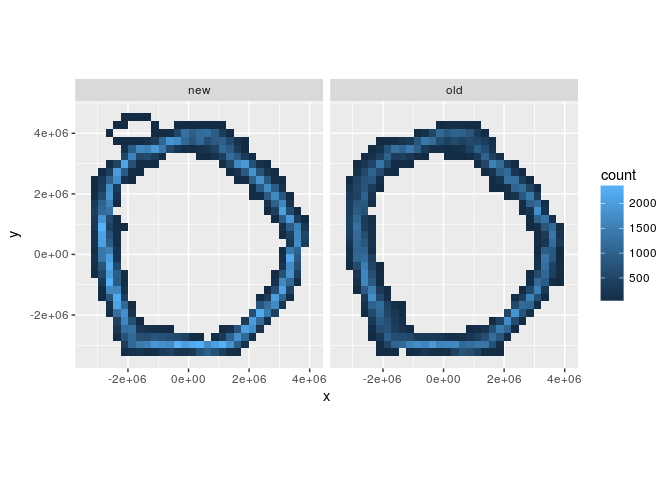
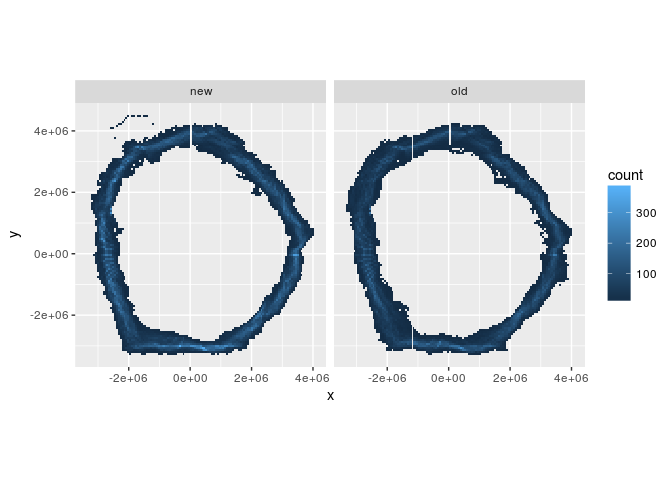
finer resolution

diff --git a/README.md b/README.md
@@ -31,7 +31,7 @@ ice <- tibble(lon = rep_len(seq(-180, 179), length.out = length(packed_lats)),
 prjstere <- "+proj=stere +lat_0=-90 +datum=WGS84"
 ice[c("x", "y")] <- rgdal::project(as.matrix(ice[c("lon", "lat")]), prjstere)
 library(ggplot2)
-ggplot(ice, aes(x, y)) + geom_bin2d() + coord_equal()
+ggplot(ice, aes(x, y)) + geom_bin2d(bins = 120) + coord_equal()
 #> Warning: Removed 12538 rows containing non-finite values (stat_bin2d).
 ```
 
@@ -41,7 +41,7 @@ ggplot(ice, aes(x, y)) + geom_bin2d() + coord_equal()
 
 # what does a month look like
 mon <- ice %>% dplyr::filter(format(day, "%m") == "08")
-ggplot(mon, aes(x, y)) + geom_bin2d() + coord_equal() + xlim(range(mon$x)) + ylim(range(mon$y))
+ggplot(mon, aes(x, y)) + geom_bin2d(bins = 120) + coord_equal() + xlim(range(mon$x)) + ylim(range(mon$y))
 #> Warning: Removed 1074 rows containing non-finite values (stat_bin2d).
 #> Warning: Removed 2 rows containing missing values (geom_tile).
 ```
@@ -50,12 +50,14 @@ ggplot(mon, aes(x, y)) + geom_bin2d() + coord_equal() + xlim(range(mon$x)) + yli
 
 ``` r
 
+
 mon$era <- c("old", "new")[(mon$day > as.POSIXct("1998-06-15")) + 1]
 ggplot(mon, aes(x, y)) + 
-  geom_bin2d() + coord_equal() + xlim(range(mon$x)) + ylim(range(mon$y)) + 
+  geom_bin2d(bins = 120) + coord_equal() + xlim(range(mon$x)) + ylim(range(mon$y)) + 
   facet_wrap(~era)
 #> Warning: Removed 1074 rows containing non-finite values (stat_bin2d).
-#> Warning: Removed 4 rows containing missing values (geom_tile).
+
+#> Warning: Removed 2 rows containing missing values (geom_tile).
 ```
 
 ![](README-example-3.png)
@@ -69,7 +71,7 @@ library(orsifronts)
 library(dplyr)
 fronts <- ggplot2::fortify(sp::spTransform(orsifronts, prjstere))
 
-ggplot(mon, aes(x, y)) + geom_bin2d() + geom_path(data = fronts, aes(long, lat, group = group, colour = id))
+ggplot(mon, aes(x, y)) + geom_bin2d(bins = 120) + geom_path(data = fronts, aes(long, lat, group = group, colour = id))
 #> Warning: Removed 1074 rows containing non-finite values (stat_bin2d).
 ```
 
@@ -79,7 +81,7 @@ ggplot(mon, aes(x, y)) + geom_bin2d() + geom_path(data = fronts, aes(long, lat, 
 
 ## get a coastline
 cst <- fortify(sp::spTransform(rnaturalearth::ne_coastline(), prjstere))
-ggplot(mon, aes(x, y)) + geom_bin2d() + geom_path(data = fronts, aes(long, lat, group = group, colour = id)) + geom_path(data = cst, aes(long, lat, group = group)) + 
+ggplot(mon, aes(x, y)) + geom_bin2d(bins = 120) + geom_path(data = fronts, aes(long, lat, group = group, colour = id)) + geom_path(data = cst, aes(long, lat, group = group)) + 
   xlim(range(fronts$long)) + ylim(range(fronts$lat))
 #> Warning: Removed 1074 rows containing non-finite values (stat_bin2d).
 #> Warning: Removed 880 rows containing missing values (geom_path).
